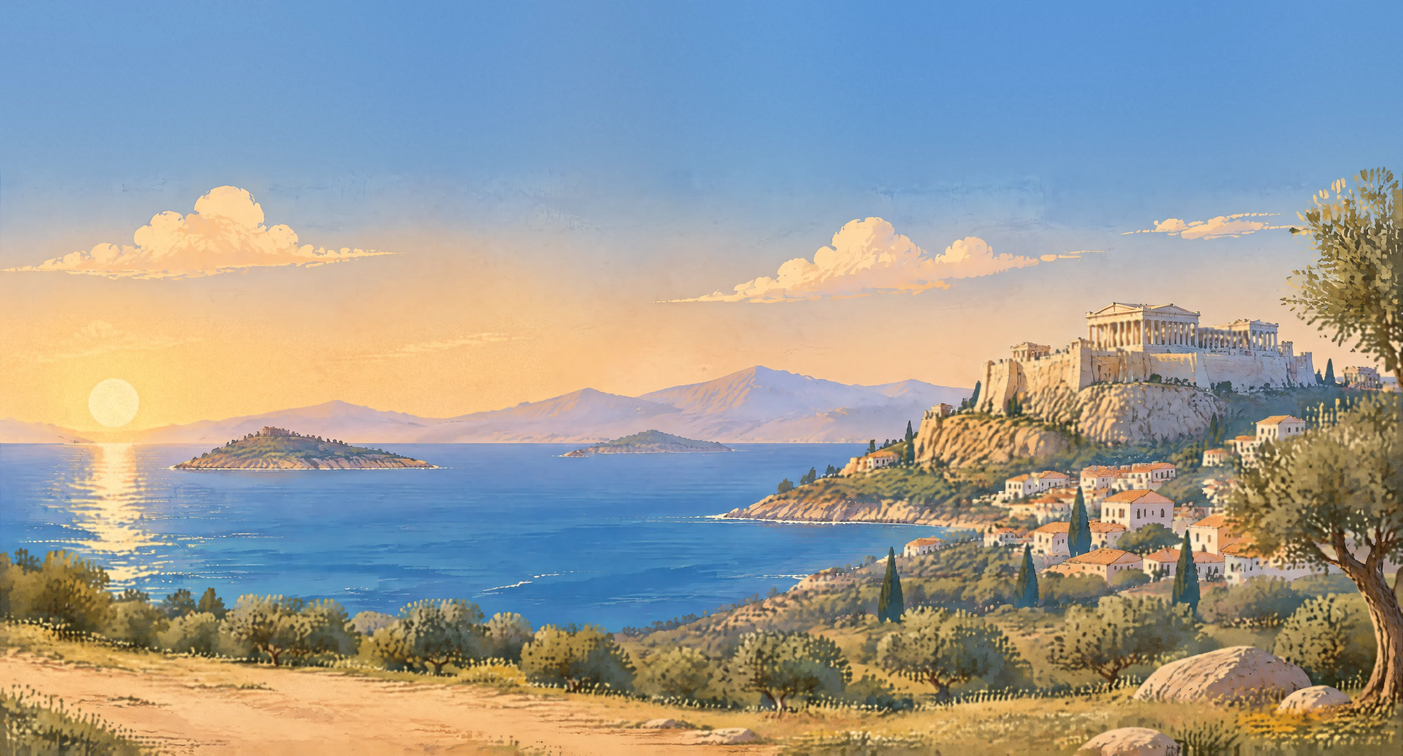
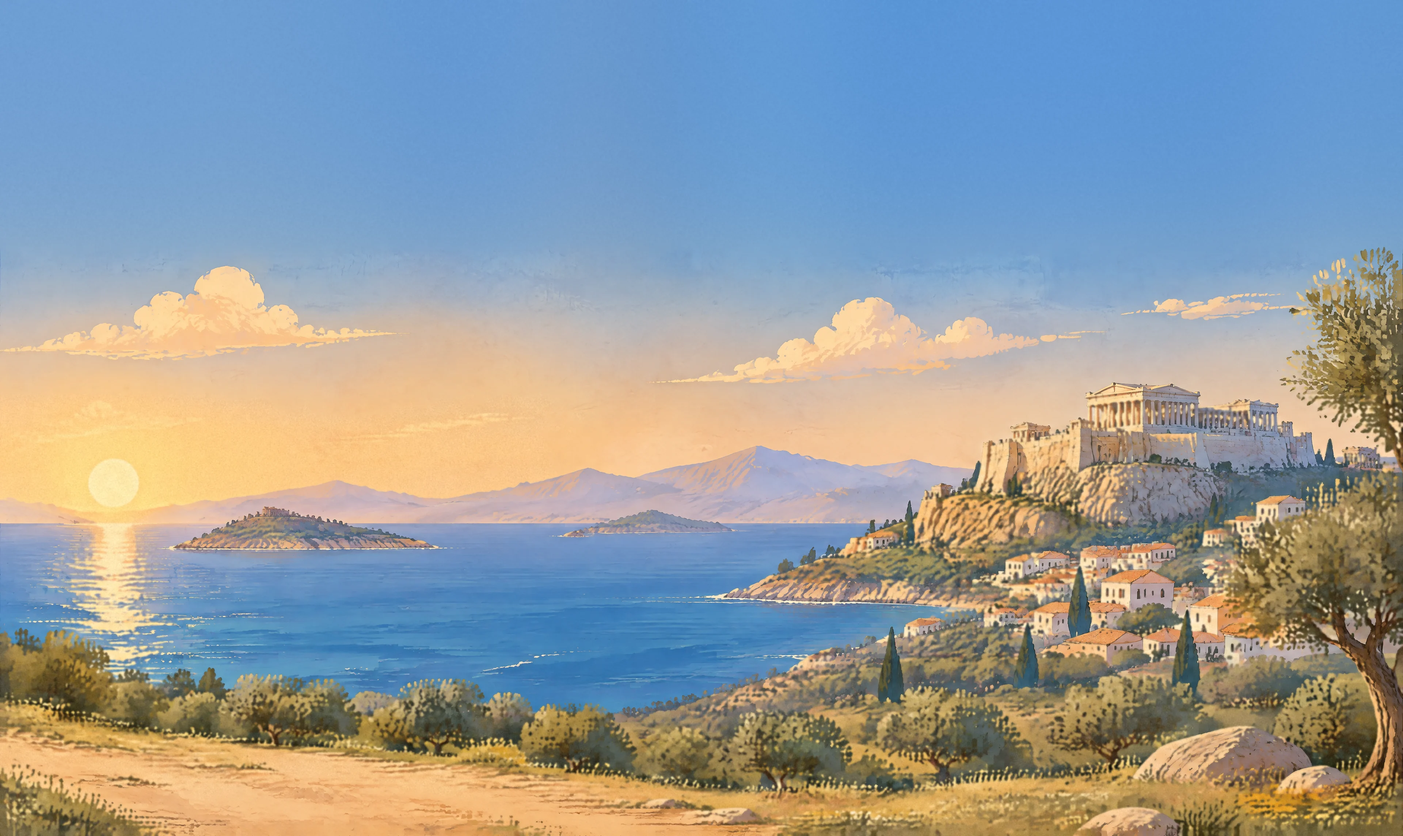
Intro reframed below the laurels, taller sky extension, softer Chapter 1 rays; docs
- Plates: sky extension 420 -> 640 px, so the Intro can frame wider (z 0.70) and the
  Acropolis sits clear of the title laurels at 16:9, 16:10 and 4:3
- Chapter 1: sun rays fade out within 760 units (no hard wedges in the open sky)
- README: plates and framing, camera clamp/anchor, IK walk, staging helpers, loading,
  generation record; MISSING_ASSETS: plan requirements, higher-resolution plates
- Chapter 1 thumbnail re-rendered

Claude-Session: https://claude.ai/code/session_01TPCe3NQpYd9FFqknt9SLFh

diff --git a/src/scenes/intro.js b/src/scenes/intro.js
@@ -73,7 +73,7 @@ export function build(sc) {
 
   // wide framing: the Acropolis sits below the laurels and right of the title block, the elder and the
   // child watch from the meadow at the lower left (the sky extension above the plate gives the headroom)
-  const CAM = { x: 1180, y: 320, z: 0.73 };
+  const CAM = { x: 1180, y: 302, z: 0.7 };   // y rests the 16:9 frame on the plate's bottom edge (945 - 450 / z)
   plate(sc, world, 'intro_env', 'intro_sea_mask', { sun: [186, 359], horizon: 429, glitterW: 300, id: 'in' });
   // warm bloom around the low sun (code light)
   const glowG = S.rgrad([[0, '#FFE6B0', 0.85], [0.3, '#FFD38A', 0.3], [1, '#FFD38A', 0]]);
@@ -114,7 +114,7 @@ export function build(sc) {
   const tl = sc.tl;
   sc.anchorY = 1;
   sc.cam.x = CAM.x; sc.cam.y = CAM.y; sc.cam.z = CAM.z;
-  tl.to(sc.cam, { x: 1225, y: 326, z: 0.75, duration: 26, ease: 'sine.inOut', yoyo: true, repeat: -1 }, 0);
+  tl.to(sc.cam, { x: 1225, y: 320, z: 0.72, duration: 26, ease: 'sine.inOut', yoyo: true, repeat: -1 }, 0);
   tl.to(glow, { opacity: 0.7, duration: 7, ease: 'sine.inOut', yoyo: true, repeat: -1 }, 0);
   tl.to(child.p, { head: -8, duration: 3.5, ease: 'sine.inOut', yoyo: true, repeat: -1, repeatDelay: 2.5 }, 2);
   tl.to(elder.p, { head: -6, lean: 2, duration: 4.5, ease: 'sine.inOut', yoyo: true, repeat: -1, repeatDelay: 3 }, 5);

diff --git a/src/art/library.gen.js b/src/art/library.gen.js
@@ -96,8 +96,8 @@ export const LIB = {
   ship_merchant: { src: a42, w: 900, h: 602, an: {"keel":[0.5,0.9939],"yard":[0.3359,0.1336]} },
   ship_merchant_sail: { src: a43, w: 900, h: 602, an: {"keel":[0.5,0.9939],"yard":[0.3359,0.1336]} },
   ship_small_sail: { src: a44, w: 343, h: 360, an: {"base":[0.4449,0.9905]} },
-  ch01_env: { src: a45, w: 3840, h: 2068, horizon: 1136, skyExt: 420, masterH: 1648 },
-  ch01_sea_mask: { src: a46, w: 3840, h: 2068, horizon: 1136, skyExt: 420, masterH: 1648 },
-  intro_env: { src: a47, w: 3840, h: 2068, horizon: 1217, skyExt: 420, masterH: 1648 },
-  intro_sea_mask: { src: a48, w: 3840, h: 2068, horizon: 1217, skyExt: 420, masterH: 1648 },
+  ch01_env: { src: a45, w: 3840, h: 2288, horizon: 1356, skyExt: 640, masterH: 1648 },
+  ch01_sea_mask: { src: a46, w: 3840, h: 2288, horizon: 1356, skyExt: 640, masterH: 1648 },
+  intro_env: { src: a47, w: 3840, h: 2288, horizon: 1437, skyExt: 640, masterH: 1648 },
+  intro_sea_mask: { src: a48, w: 3840, h: 2288, horizon: 1437, skyExt: 640, masterH: 1648 },
 };

diff --git a/src/scenes/birth.js b/src/scenes/birth.js
@@ -58,7 +58,7 @@ export function build(sc) {
   const dawn = add(world, `<g><defs>${dawnG.def}</defs><rect x="-200" y="-420" width="2730" height="${HORIZON + 440}" fill="${dawnG.ref}"/></g>`);
   const glowG = S.rgrad([[0, '#FFE6B0', 0.9], [0.3, '#FFD38A', 0.35], [1, '#FFD38A', 0]]);
   const glow = add(world, `<g style="mix-blend-mode:screen"><defs>${glowG.def}</defs><circle cx="757" cy="312" r="420" fill="${glowG.ref}"/></g>`);
-  const rays = add(world, `<g style="mix-blend-mode:screen" opacity=".85">${S.rays({ x: 757, y: 312, n: 13, spread: 150, dir: -90, len: 1400, op: 0.11 })}</g>`);
+  const rays = add(world, `<g style="mix-blend-mode:screen" opacity=".85">${S.rays({ x: 757, y: 312, n: 13, spread: 150, dir: -90, len: 760, op: 0.11 })}</g>`);
   // horizon haze, faded out towards the painted olive tree at the left edge
   const hzG = S.grad([[0, '#F7E4CC', 0], [0.5, '#F7E4CC', 0.85], [1, '#F7E4CC', 0]]);
   const hzX = S.grad([[0, '#fff', 0], [1, '#fff', 1]], { x1: 0, y1: 0, x2: 1, y2: 0 });

diff --git a/tools/assets/plates.py b/tools/assets/plates.py
@@ -28,7 +28,7 @@ from PIL import Image
 ROOT = os.path.abspath(os.path.join(os.path.dirname(__file__), '..', '..'))
 OUT = {'ch01': os.path.join(ROOT, 'assets', 'chapter-01'), 'intro': os.path.join(ROOT, 'assets', 'intro')}
 DBG = os.environ.get('PLATE_DEBUG')
-SKY_EXT = 420  # px of extended sky (= 255 scene units at the 1.648 px/unit plate scale)
+SKY_EXT = 640  # px of extended sky (= 388 scene units at the 1.648 px/unit plate scale)
 
 
 def rgb(path):

diff --git a/README.md b/README.md
@@ -48,19 +48,22 @@ npm run build && npm run preview   # production build → http://localhost:4173/
 
 The title scene and Chapter 1 are built from production art generated per asset. Each image holds one asset, or a small family of 2–4 widely spaced ones, generated with GPT Image 2.5 on a native transparent background. The style references are the approved sheets in `assets/_reference/`. Code places, layers and animates the art. Code also draws light and atmosphere (dawn wash, sun glow and rays, horizon haze, water glints and highlights, contact shadows), the map labels and the stick limbs.
 
-- **Runtime scene = environment plate + transparent sprites + code animation.** Each scene has one coherent painted environment plate (`assets/chapter-01/ch01_environment_master.png`, `assets/intro/intro_environment_master.png`, 3840×1648). Plates contain no characters, no moving ship and nothing that animates on its own. Everything that moves is a separate transparent sprite: the merchant ship and its sail, boats, villagers, props, clouds, gulls, smoke and framing foliage. The painted sea is animated in code with glints and drifting highlights, clipped to a sea mask (`*_sea_mask.webp`), so no water pixels ever travel with a ship. Ships are clipped at their waterline.
+- **Generation record** — 17 GPT Image 2.5 generations on Higgsfield (17.5 credits). One outpaint attempt (2 credits) was also tried to widen the Chapter 1 plate. It re-imagined the scene, so it was discarded in favour of the code sky extension. That is 19.5 of the 28.33 credits available at the start of the pass, leaving 8.83. No good asset was regenerated. ElevenLabs credits were not used: narration is not part of this pass.
+- **Runtime scene = environment plate + transparent sprites + code animation.** Each scene has one coherent painted environment plate (`assets/chapter-01/ch01_environment_master.png`, `assets/intro/intro_environment_master.png`, 3840×1648). Plates contain no characters, no moving ship and nothing that animates on its own. Everything that moves is a separate transparent sprite: the merchant ship and its sail, boats, villagers, props, clouds, gulls, smoke and framing foliage. The painted sea is animated in code with glints and drifting highlights, clipped to a sea mask (`*_sea_mask.webp`), so no water pixels ever travel with a ship. Ships are clipped at their waterline and seated by a faint mirrored reflection, a dark waterline, bow foam and a trailing stern wake.
+- **Plates and framing** — `tools/assets/plates.py` turns each master into its runtime plate. It softens the blocky foreground-foliage dabs the generator left (a hue-masked median and Gaussian filter, then grain added back), and it adds 640 px of sky on top. The added sky continues each column's sky colour with the plate's own vertical gradient and texture, with a long feather into the master. The camera is clamped to the plate (`Scene.view()` in `src/engine/scene.js`). It zooms in just enough that no aspect ratio (4:3, 16:10, ultrawide) shows past the painting. With `sc.anchorY = 1` it keeps the bottom of each authored frame, so wide screens keep the villagers' ground line.
 - **Library** — `assets/global/{characters,heads,costumes,props,ships,environment,fx}`, `assets/chapter-01/`, `assets/intro/`. Each sprite has a lossless PNG master and a runtime WebP sized for its largest on-screen use at 2× pixel density. `assets/library.json` records sizes, anchors (neck, collar, hem, wrist, ankle, sole, base, sail yard, keel), scale and an alpha-QA record. `src/art/library.gen.js` is the generated import map. The raw generations are kept in `assets/_generated/`.
 - **Pipeline** (`tools/assets/`):
   ```bash
   pip install -r tools/assets/requirements.txt
   python3 tools/assets/build_library.py   # split families, defringe, drop specks, trim, measure anchors, write masters + WebP + library.json
-  python3 tools/assets/plates.py          # plate runtime WebP + sea masks
+  python3 tools/assets/plates.py          # plate runtime WebP (foliage softening, sky extension) + sea masks
   python3 tools/assets/gen_module.py      # src/art/library.gen.js
   python3 tools/assets/alpha_qa.py check <png> <preview.png>   # halo metrics + white/black/blue composite
   ```
-  Edge clean-up: every semi-transparent edge pixel takes the colour of the nearest solid pixel, so no white or black matte can survive resampling. Specks are removed. Every sprite is checked on white, black and blue backgrounds.
-- **Hybrid cutout rig** (`src/art/cutout.js`) — proportions are measured from the canonical cast (`assets/global/characters/char_cast_canonical.png`). Each figure has a painted head (with hair, beard or hat), a painted costume (one image: the torso part is masked above the belt, and the skirt part skews from the waist), painted hands (open or gripping) and painted sandal feet. Arms and legs are tapered ink-brush strokes in the sampled limb colour. The walk interpolates 8 key poses with a pose-hold ease (limited-animation feel): alternating arms and legs, bent knees, heel strike and toe push-off, planted support foot, hip bob, shoulder counter-swing, head stabilisation and a lagging skirt. Poses: stand, relaxed, point, wave, talk, offer, carryHead, sit, crouch.
-- **Staging helpers** (`src/art/stage.js`) — `plate()` (plate + masked water), `ship()` (waterline clip, wake), `skyLife()` (cloud drift, two-frame gull flap), `swayAll()`.
+  Edge clean-up: every semi-transparent edge pixel takes the colour of the nearest solid pixel, so no white or black matte can survive resampling. Thin translucent foliage (the foreground grass and branch) uses a smooth variant instead, a Gaussian-weighted average of nearby solid colour, so wide translucent areas do not break into facets. Specks are removed. Every sprite is checked on white, black and blue backgrounds.
+- **Hybrid cutout rig** (`src/art/cutout.js`) — proportions are measured from the canonical cast (`assets/global/characters/char_cast_canonical.png`). Each figure has a painted head (with hair, beard or hat), a painted costume (one image: the torso part is masked above the belt, and the skirt part skews from the waist), painted hands (open or gripping) and painted sandal feet. Arms and legs are tapered ink-brush strokes in the sampled limb colour. The back arm comes out of the costume's inked armhole. The walk is foot-locked inverse kinematics driven by the distance walked, so feet never skate. A planted foot stays fixed on the ground, with a heel-strike pivot and a toe-off pivot. The swing foot follows an arc. The hip rides on the stance leg, arms swing opposite the legs, the head is stabilised and the skirt lags. A walk always ends on a half cycle with both feet down. Poses: stand, relaxed, point, wave, talk, offer, carryHead, sit, crouch.
+- **Staging helpers** (`src/art/stage.js`) — `plate()` (plate + masked water: sun glints and drifting highlights; sets the camera bounds), `ship()` (waterline clip, reflection, wake; `pose(dy, rot)` bobs hull and reflection together), `skyLife()` (cloud drift and two-frame gull flap, wrapping forever for an idle title screen), `swayAll()`, `screenToLayer()` (place framing foliage on a parallax layer for a given shot), `contactShadow()`. In Chapter 1, villagers and ground props are drawn back to front by the line they stand on.
+- **Loading** — clicking Begin or choosing a chapter starts the curtain at once. The chapter's module and art load behind it, and the reveal follows when they are ready, so a slow connection never leaves a click unanswered (`tools/slownet.mjs` checks this).
 - **Missing art** — see `MISSING_ASSETS.md`.
 - **Dev preview** — `/tools/preview/rig.html` shows the cast line-up and the walk cycle (`?mode=walk&c=<costume>&h=<head>`).
 
@@ -83,6 +86,7 @@ node tools/filmstrip.mjs <url> out.png [from to step w h]   # contact sheet of a
 node tools/figstrip.mjs <url> <figIndex> <from> <to> <step> out.png   # crop that follows one rig figure (walk QA)
 node tools/fps.mjs <url> [chapter] [w h]   # playback frame-time stats
 node tools/probe.mjs <url> '[[x,y],…]'   # which images sit under given screen points
+node tools/slownet.mjs <url> <delayMs>   # Begin on a slow connection: the curtain must answer at once
 ```
 
 Handy URL parameters: `?c=5&t=20&paused=1&ui=0` opens chapter 5 paused at 20 s with the controls hidden.

diff --git a/MISSING_ASSETS.md b/MISSING_ASSETS.md
@@ -11,6 +11,7 @@ Shared conventions:
 - Generate on a native transparent background with GPT Image 2.5 (`background: transparent`). Use the canonical
   cast (`assets/global/characters/char_cast_canonical.png`) or the environment plate as the reference image.
 - Run through `tools/assets/build_library.py` afterwards.
+- Availability: GPT Image 2.5 on Higgsfield now needs a paid plan (the account is on the free plan with 8.83 credits left). ElevenLabs offers the same model (`creative_generate_image`), but its credits are reserved for narration. Each item below is one generation (about 1–1.25 credits).
 
 ---
 
@@ -37,7 +38,7 @@ Shared conventions:
 | **Description** | The same characters as the canonical cast (same head size, same limb thickness, same costumes), drawn in the poses where a cutout rig reads stiffest: kneeling to plant, the seated child, and the walk contact and passing poses for the long walks. |
 | **Where** | Chapter 1 cast. They would swap in for the rig during these actions. |
 | **Rigging** | None. Whole-pose swap, 6–8 drawings per action. |
-| **Fallback** | The hybrid cutout rig: 8-key-pose walk, crouch, sit, point, wave and talk poses. |
+| **Fallback** | The hybrid cutout rig: IK foot-locked walk, crouch, sit, point, wave and talk poses. |
 
 ## 3. Gull flap cycle (more frames)
 
@@ -70,10 +71,22 @@ Shared conventions:
 | **Files** | None needed. The title scene reuses the Chapter 1 elder and child. |
 | **Note** | If a different pair is wanted for the title, generate one head and one costume per role with the canonical cast as the reference image. The existing rig takes them unchanged. |
 
+## 6. Higher-resolution environment plates
+
+| | |
+|---|---|
+| **Files** | `assets/chapter-01/ch01_environment_master.png`, `assets/intro/intro_environment_master.png` (replacements) |
+| **Dimensions** | 5760 × 2472 or larger, or the same scene delivered as 2 × 2 tiles with overlap |
+| **Transparency** | No |
+| **Description** | The same compositions with more sky above the clouds (about 25% of the height), so the code sky extension is no longer needed. Foreground foliage should be painted as soft leaf clusters, not square dabs. |
+| **Where** | Both plates. The 3840 px masters are upscaled about 1.4–1.5× on 2× screens during Chapter 1's closer shots, which softens fine texture. |
+| **Fallback** | The current masters, with foliage softening and a 640 px code sky extension (`tools/assets/plates.py`). The camera is clamped to the plate at every aspect ratio. |
+
 ---
 
 ### Generated but not used yet (available in the library)
 
 - `env_olive_tree_a`, `env_cypress_a`: the plates already contain painted trees. These are for later chapters.
 - `env_olive_sapling_3`: the largest sapling stage. Its leaf clusters read less like olive than stages 1 and 2, so the scene stops at stage 2.
+- `char_cast_canonical.png` is the reference image for future character generations. It is not loaded at runtime and keeps the faint dust specks of the source image.
 - `env_cloud_a/b/c`, `env_shrub_a`, `prop_crate` and others are in use. The full list is in `assets/library.json`.
